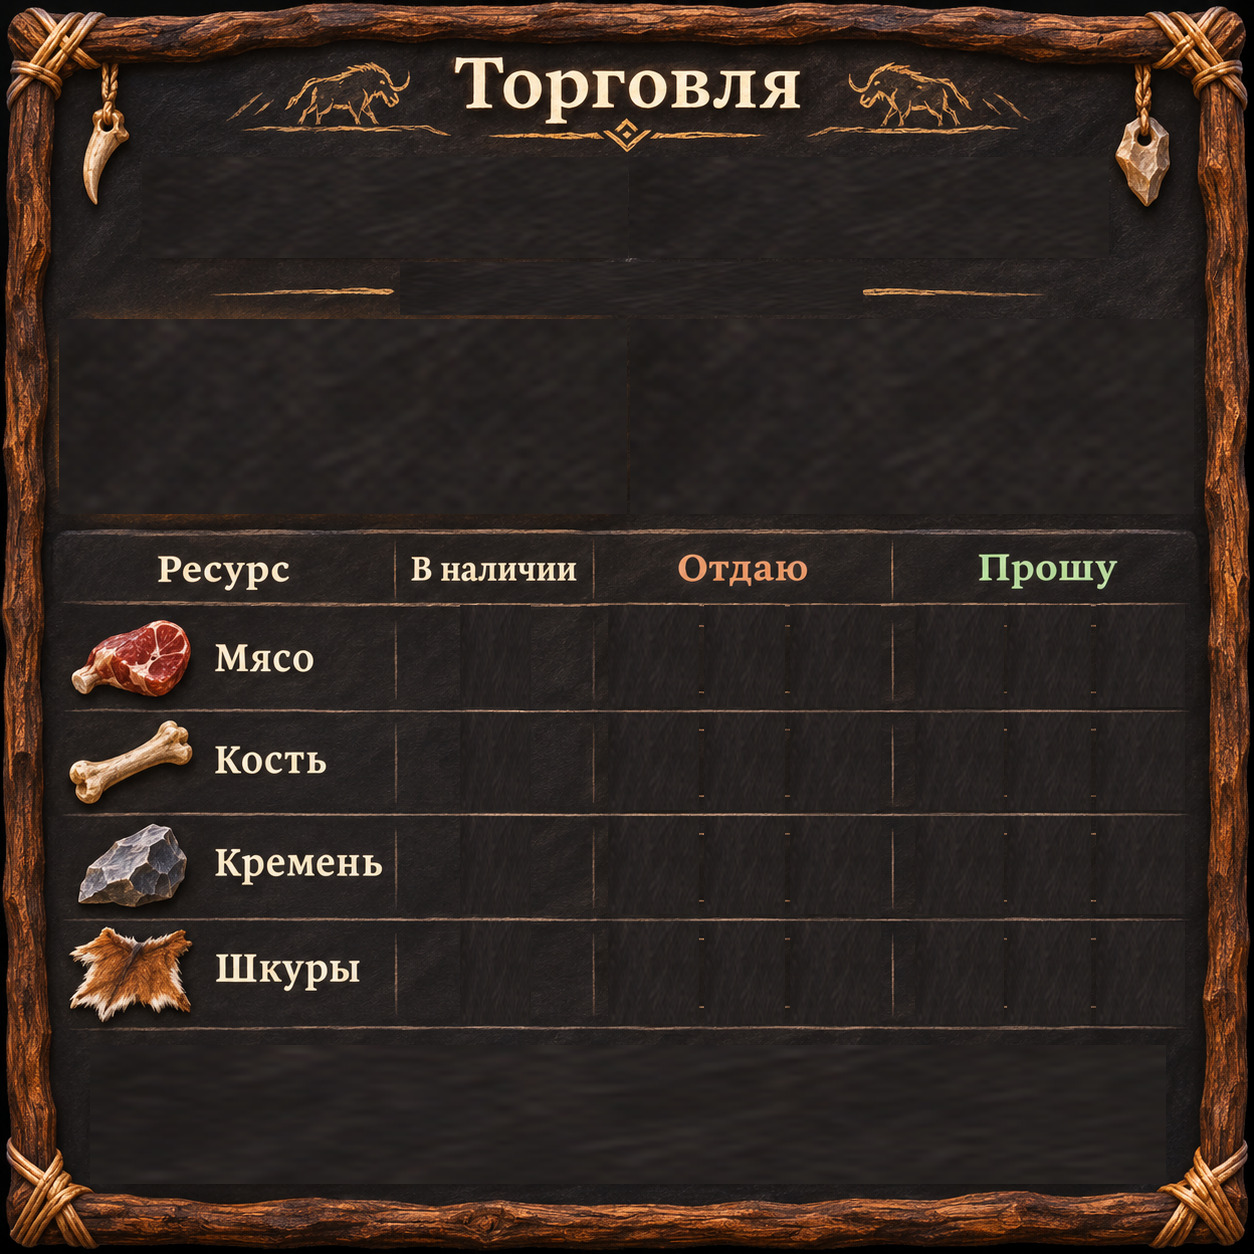
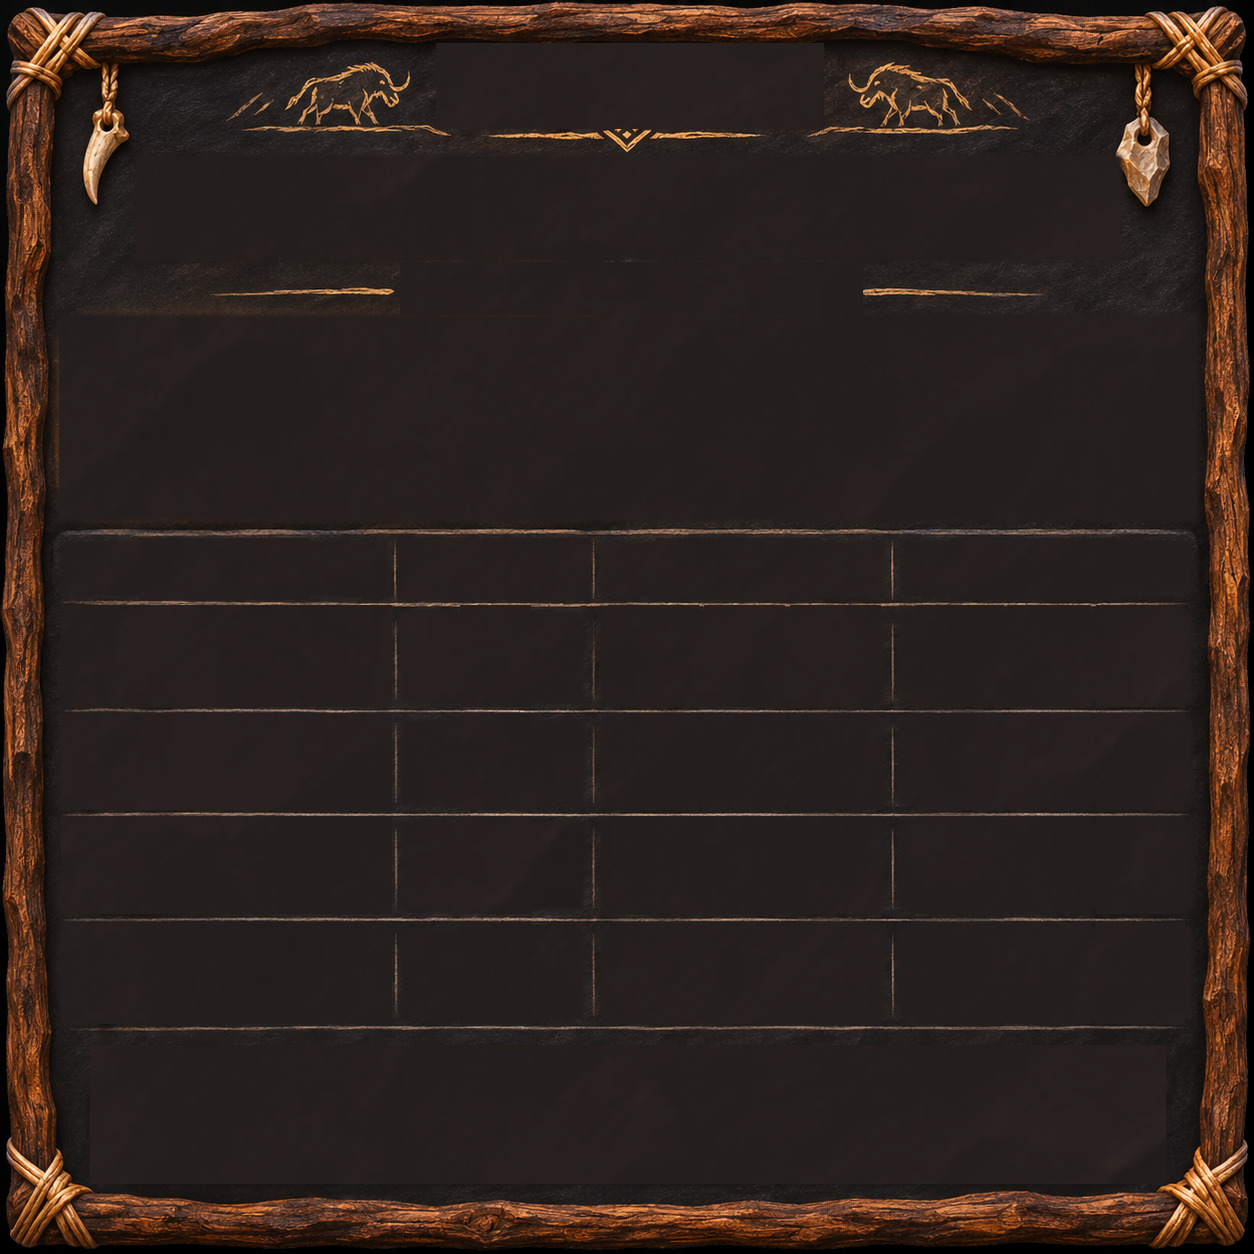
fixed trade window

diff --git a/GameClient/MapScreen.Trade.cs b/GameClient/MapScreen.Trade.cs
@@ -15,8 +15,10 @@ public partial class MapScreen
     private static Rectangle ModeTab(TradeMode mode) => TradeRect(mode == TradeMode.Player ? 142 : 629, 157, 486, 101);
     private static Rectangle PartnerCard(int index, int count)
     {
-        int width = (1136 - (count - 1) * 12) / count;
-        return TradeRect(59 + index * (width + 12), 319, width, 195);
+        const int gap = 12;
+        int width = Math.Min(562, (1136 - (count - 1) * gap) / count);
+        int start = (1254 - count * width - (count - 1) * gap) / 2;
+        return TradeRect(start + index * (width + gap), 319, width, 195);
     }
 
     private static readonly int[] TradeRowCenters = { 660, 761, 865, 971 };
@@ -123,6 +125,7 @@ public partial class MapScreen
         bool bank = _tradeMode == TradeMode.Bank;
         var mouse = HudMouse;
         Art("barter-panel", TradeRect(0, 0, 1254, 1254));
+        CenteredLabel("Торговля", TradeRect(436, 50, 382, 79), 64);
         foreach (var mode in Enum.GetValues<TradeMode>())
         {
             var tab = ModeTab(mode);
@@ -130,11 +133,11 @@ public partial class MapScreen
                 mode == TradeMode.Player ? "С игроком" : "С банком", 42, !Busy && !HasPendingTrade, mouse);
         }
 
-        Label(bank ? "Обмен с банком" : "С кем обменяться:", TradeRect(348, 261, 565, 55), 30, true);
+        CenteredLabel(bank ? "Обмен с банком" : "С кем обменяться:", TradeRect(400, 261, 454, 55), 30);
         if (bank)
         {
-            Label("Отдайте три разных вида ресурсов", TradeRect(130, 332, 994, 72), 34, true);
-            Label("Выберите один ресурс в колонке «Прошу»", TradeRect(130, 409, 994, 70), 28, true);
+            CenteredLabel("Отдайте три разных вида ресурсов", TradeRect(130, 341, 994, 72), 34);
+            CenteredLabel("Выберите один ресурс в колонке «Прошу»", TradeRect(130, 421, 994, 70), 28);
         }
         else
         {
@@ -142,11 +145,17 @@ public partial class MapScreen
                 DrawTradePartner(partners[i], PartnerCard(i, partners.Length), mouse);
         }
 
+        CenteredLabel("Ресурс", TradeRect(62, 535, 328, 64), 31);
+        CenteredLabel("В наличии", TradeRect(400, 535, 184, 64), 27);
+        CenteredLabel("Отдаю", TradeRect(610, 535, 264, 64), 31, new Color(239, 170, 129));
+        CenteredLabel("Прошу", TradeRect(918, 535, 264, 64), 31, new Color(181, 211, 163));
         for (int row = 0; row < Resources.Length; row++)
         {
-            var resource = Resources[row].Type;
+            var (resource, icon) = Resources[row];
             int cy = TradeRowCenters[row];
-            Label((game.You?.Resource(resource) ?? 0).ToString(), TradeRect(434, cy - 38, 116, 76), 32, true);
+            Art(icon, TradeRect(81, cy - 40, 80, 80));
+            CenteredLabel(ResourceName(resource), TradeRect(172, cy - 38, 202, 76), 33);
+            CenteredLabel((game.You?.Resource(resource) ?? 0).ToString(), TradeRect(434, cy - 38, 116, 76), 32);
             DrawTradeAmount(row, resource, false, target, mouse);
             if (bank)
             {
@@ -167,7 +176,7 @@ public partial class MapScreen
     {
         var amounts = request ? _tradeRequest : _tradeOffer;
         var valueBox = TradeRect(request ? 1003 : 695, TradeRowCenters[row] - 38, 94, 76);
-        Label(amounts.GetValueOrDefault(resource).ToString(), valueBox, 32, true);
+        CenteredLabel(amounts.GetValueOrDefault(resource).ToString(), valueBox, 32);
         for (int delta = -1; delta <= 1; delta += 2)
             DrawTradeControl(delta < 0 ? "barter-minus" : "barter-plus", AmountButton(row, request, delta),
                 "", 0, CanChangeAmount(resource, request, delta, target), mouse);
@@ -180,41 +189,33 @@ public partial class MapScreen
             _spriteBatch.Draw(_pixel, bounds, Color.Wheat * 0.12f);
         if (text.Length == 0) return;
         bounds.Inflate(-bounds.Width / 12, -bounds.Height / 8);
-        Label(text, bounds, size, true, enabled ? Ivory : Color.LightGray);
+        CenteredLabel(text, bounds, size, enabled ? Ivory : Color.LightGray);
     }
 
     private void DrawTradePartner(PlayerSnapshot player, Rectangle bounds, Point mouse)
     {
-        bool blue = player.Color == PlayerColor.Blue;
-        bool green = player.Color == PlayerColor.White;
-        Art(blue ? "barter-blue" : "barter-green", bounds);
-        if (!blue && !green)
+        bool selected = player.Id == _tradeTargetId;
+        _spriteBatch.Draw(_art["backdrop"], bounds, new Rectangle(260, 0, 1350, 465), new Color(145, 138, 130));
+        Art("barter-partner", bounds, selected ? new Color(255, 193, 91) : new Color(152, 150, 145));
+        if (bounds.Contains(mouse)) _spriteBatch.Draw(_pixel, bounds, Color.Wheat * .10f);
+
+        int inset = bounds.Height / 9;
+        Rectangle portrait, name;
+        if (bounds.Width < bounds.Height * 5 / 2)
         {
-            var portrait = new Rectangle(bounds.X + 4, bounds.Y + 7, bounds.Width * 43 / 100, bounds.Height - 14);
-            Art(Identity(player.Color).Portrait, portrait);
+            int side = bounds.Height * 2 / 5;
+            portrait = new Rectangle(bounds.Center.X - side / 2, bounds.Top + inset, side, side);
+            name = new Rectangle(bounds.X + inset, portrait.Bottom + 3,
+                bounds.Width - 2 * inset, bounds.Bottom - inset - portrait.Bottom - 3);
         }
-        var name = new Rectangle(bounds.X + bounds.Width * 43 / 100, bounds.Y + bounds.Height / 7,
-            bounds.Width * 54 / 100, bounds.Height / 3);
-        string caption = player.Name;
-        if (caption.Length > 16)
+        else
         {
-            int middle = caption.Length / 2;
-            int space = caption.LastIndexOf(' ', middle);
-            int split = space > middle / 2 ? space : middle;
-            caption = caption[..split] + "\n" + caption[split..].TrimStart();
-            name.Height = bounds.Height * 2 / 3;
+            int side = bounds.Height - 2 * inset;
+            portrait = new Rectangle(bounds.X + inset, bounds.Y + inset, side, side);
+            name = new Rectangle(portrait.Right + inset, bounds.Y + inset,
+                bounds.Right - portrait.Right - 2 * inset, bounds.Height - 2 * inset);
         }
-        Label(caption, name, 36, true);
-        if (player.Id == _tradeTargetId)
-        {
-            var edge = new Color(244, 181, 85);
-            var r = bounds;
-            r.Inflate(-4, -5);
-            _spriteBatch.Draw(_pixel, new Rectangle(r.X, r.Y, r.Width, 2), edge);
-            _spriteBatch.Draw(_pixel, new Rectangle(r.X, r.Bottom - 2, r.Width, 2), edge);
-            _spriteBatch.Draw(_pixel, new Rectangle(r.X, r.Y, 2, r.Height), edge);
-            _spriteBatch.Draw(_pixel, new Rectangle(r.Right - 2, r.Y, 2, r.Height), edge);
-        }
-        else if (bounds.Contains(mouse)) _spriteBatch.Draw(_pixel, bounds, Color.Wheat * 0.12f);
+        Art(Identity(player.Color).Portrait, portrait);
+        CenteredLabel(player.Name.Trim(), name, 36, wrap: true);
     }
 }

diff --git a/GameClient/MapScreen.Hud.cs b/GameClient/MapScreen.Hud.cs
@@ -80,15 +80,53 @@ public partial class MapScreen
         }
     }
 
-    private void Label(string text, Rectangle box, int fontSize, bool center = false, Color? color = null)
+    private void Label(string text, Rectangle box, int fontSize)
     {
         if (string.IsNullOrEmpty(text)) return;
         var font = _numberFontSystem.GetFont(fontSize * 1.18f);
         var size = font.MeasureString(text);
         float scale = Math.Min(1, Math.Min(box.Width / size.X, box.Height / size.Y));
-        var pos = new Vector2(box.X + (center ? (box.Width - size.X * scale) / 2 : 0),
+        var pos = new Vector2(box.X,
             box.Y + (box.Height - size.Y * scale) / 2);
-        _spriteBatch.DrawString(font, text, pos, color ?? Ivory, scale: new Vector2(scale));
+        _spriteBatch.DrawString(font, text, pos, Ivory, scale: new Vector2(scale));
+    }
+
+    private void CenteredLabel(string text, Rectangle box, int size, Color? color = null, bool wrap = false)
+    {
+        if (string.IsNullOrWhiteSpace(text)) return;
+        var font = _numberFontSystem.GetFont(size * 1.18f);
+        var ink = font.TextBounds(text, Vector2.Zero);
+        float width = ink.X2 - ink.X;
+        string? secondLine = null;
+        Bounds secondInk = default;
+        if (wrap && width > box.Width)
+        {
+            // Split near the middle at a word boundary. Keep unbroken names on one line.
+            int middle = text.Length / 2;
+            int left = text.LastIndexOf(' ', middle);
+            int right = text.IndexOf(' ', middle);
+            int split = left < 0 || (right >= 0 && right - middle < middle - left) ? right : left;
+            if (split > 0 && split < text.Length - 1)
+            {
+                secondLine = text[(split + 1)..].TrimStart();
+                text = text[..split].TrimEnd();
+                ink = font.TextBounds(text, Vector2.Zero);
+                secondInk = font.TextBounds(secondLine, new Vector2(0, font.LineHeight));
+                width = Math.Max(ink.X2 - ink.X, secondInk.X2 - secondInk.X);
+            }
+        }
+
+        float bottom = secondLine == null ? ink.Y2 : secondInk.Y2;
+        float scale = Math.Min(1f, Math.Min(box.Width / Math.Max(1, width), box.Height / Math.Max(1, bottom - ink.Y)));
+        var center = box.Location.ToVector2() + box.Size.ToVector2() * .5f;
+        float y = center.Y - (ink.Y + bottom) * .5f * scale;
+        void DrawLine(string line, Bounds bounds, float top)
+        {
+            var pos = new Vector2(center.X - (bounds.X + bounds.X2) * .5f * scale, top);
+            _spriteBatch.DrawString(font, line, pos, color ?? Ivory, scale: new Vector2(scale));
+        }
+        DrawLine(text, ink, y);
+        if (secondLine != null) DrawLine(secondLine, secondInk, y + font.LineHeight * scale);
     }
 
     private void DrawPaintedButton(Rectangle button, string title, bool enabled, bool highlight,
@@ -106,7 +144,7 @@ public partial class MapScreen
             box.X = button.X + 105;
             box.Width = button.Width - 130;
         }
-        Label(title, box, fontSize, true, amber ? new Color(52, 32, 15) : enabled ? Ivory : Color.Silver);
+        CenteredLabel(title, box, fontSize, amber ? new Color(52, 32, 15) : enabled ? Ivory : Color.Silver);
     }
 
     private static (string Portrait, string Tribe) Identity(PlayerColor color) => color switch
@@ -149,7 +187,7 @@ public partial class MapScreen
         }
         DrawPaintedButton(MenuButton, "Меню", true, MenuButton.Contains(mouse));
         DrawPanel(Sidebar, 36);
-        Label("Ваше племя", new Rectangle(1510, 151, 346, 48), 38, true);
+        CenteredLabel("Ваше племя", new Rectangle(1510, 151, 346, 48), 38);
         if (game.You is { } me) DrawTribe(me, mouse);
         DrawPaintedButton(ExploreButton, CanConfirmMove ? $"Переместить ({_selectedRoute.Count - 1})" : "Исследовать",
             CanBuild, _exploreOpen || ExploreButton.Contains(mouse), "explore", fontSize: 32);
@@ -173,7 +211,7 @@ public partial class MapScreen
             Label(status, new Rectangle(800, 975, 620, 44), 26);
         }
         if (new Rectangle(22, 18, 450, 88).Contains(mouse))
-            Label($"{game.You?.Name} · Код игры {game.GameCode}", new Rectangle(28, 102, 450, 38), 23, true);
+            CenteredLabel($"{game.You?.Name} · Код игры {game.GameCode}", new Rectangle(28, 102, 450, 38), 23);
         if (hoveredPlayer != null) DrawPlayerDetails(hoveredPlayer);
         if (_tradeOpen && game.Phase == TurnPhase.Trade && game.IsMyTurn) DrawTradePanel();
         if (HasPendingDiscards)
@@ -223,7 +261,7 @@ public partial class MapScreen
             Art(icon, new Rectangle(x, 981, 58, 58));
             Label(me.Resource(resource).ToString(), new Rectangle(x + 76, 988, 68, 45), 36);
             if (new Rectangle(x, 978, 140, 66).Contains(mouse))
-                Label(ResourceName(resource), new Rectangle(x - 24, 928, 155, 32), 24, true);
+                CenteredLabel(ResourceName(resource), new Rectangle(x - 24, 928, 155, 32), 24);
         }
     }
 
@@ -232,7 +270,7 @@ public partial class MapScreen
         var bounds = new Rectangle(985, y, 470, 54);
         DrawPanel(bounds);
         bounds.Inflate(-14, -6);
-        Label(text, bounds, 22, true);
+        CenteredLabel(text, bounds, 22);
     }
 
     private void DrawPlayerDetails(PlayerSnapshot player)

diff --git a/GameClient/MapScreen.cs b/GameClient/MapScreen.cs
@@ -1279,16 +1279,17 @@ public partial class MapScreen
         string sourceName = _snapshot.Players
             .FirstOrDefault(p => p.Id == trade.SourcePlayerId)?.Name ?? "Игрок";
 
-        _spriteBatch.DrawString(_uiTitleFont, "Предложение обмена", new Vector2(panel.X + 14, panel.Y + 8), new Color(242, 228, 202));
-        _spriteBatch.DrawString(_uiFont, $"От: {sourceName}", new Vector2(panel.X + 14, panel.Y + 42), new Color(240, 196, 112));
-        _spriteBatch.DrawString(_uiFont, $"Отдаёт вам: {FormatResourceDict(trade.Offer)}", new Vector2(panel.X + 14, panel.Y + 72), new Color(180, 232, 168));
-        _spriteBatch.DrawString(_uiFont, $"Просит у вас: {FormatResourceDict(trade.Request)}", new Vector2(panel.X + 14, panel.Y + 102), new Color(238, 182, 148));
+        Rectangle Row(int y, int height = 30) => new(panel.X + 14, panel.Y + y, panel.Width - 28, height);
+        CenteredLabel("Предложение обмена", Row(8, 34), 29);
+        CenteredLabel($"От: {sourceName}", Row(43), 22, new Color(240, 196, 112));
+        CenteredLabel($"Отдаёт вам: {FormatResourceDict(trade.Offer)}", Row(75), 22, new Color(180, 232, 168));
+        CenteredLabel($"Просит у вас: {FormatResourceDict(trade.Request)}", Row(107), 22, new Color(238, 182, 148));
 
         bool canAfford = _snapshot.You is { } me &&
                          trade.Request.All(item => me.Resource(item.Key) >= item.Value);
         if (!canAfford)
         {
-            _spriteBatch.DrawString(_uiFont, "Недостаточно ресурсов для принятия.", new Vector2(panel.X + 14, panel.Y + 132), new Color(232, 140, 120));
+            CenteredLabel("Недостаточно ресурсов для принятия.", Row(140), 22, new Color(232, 140, 120));
         }
 
         int buttonWidth = (panel.Width - 36) / 2;
